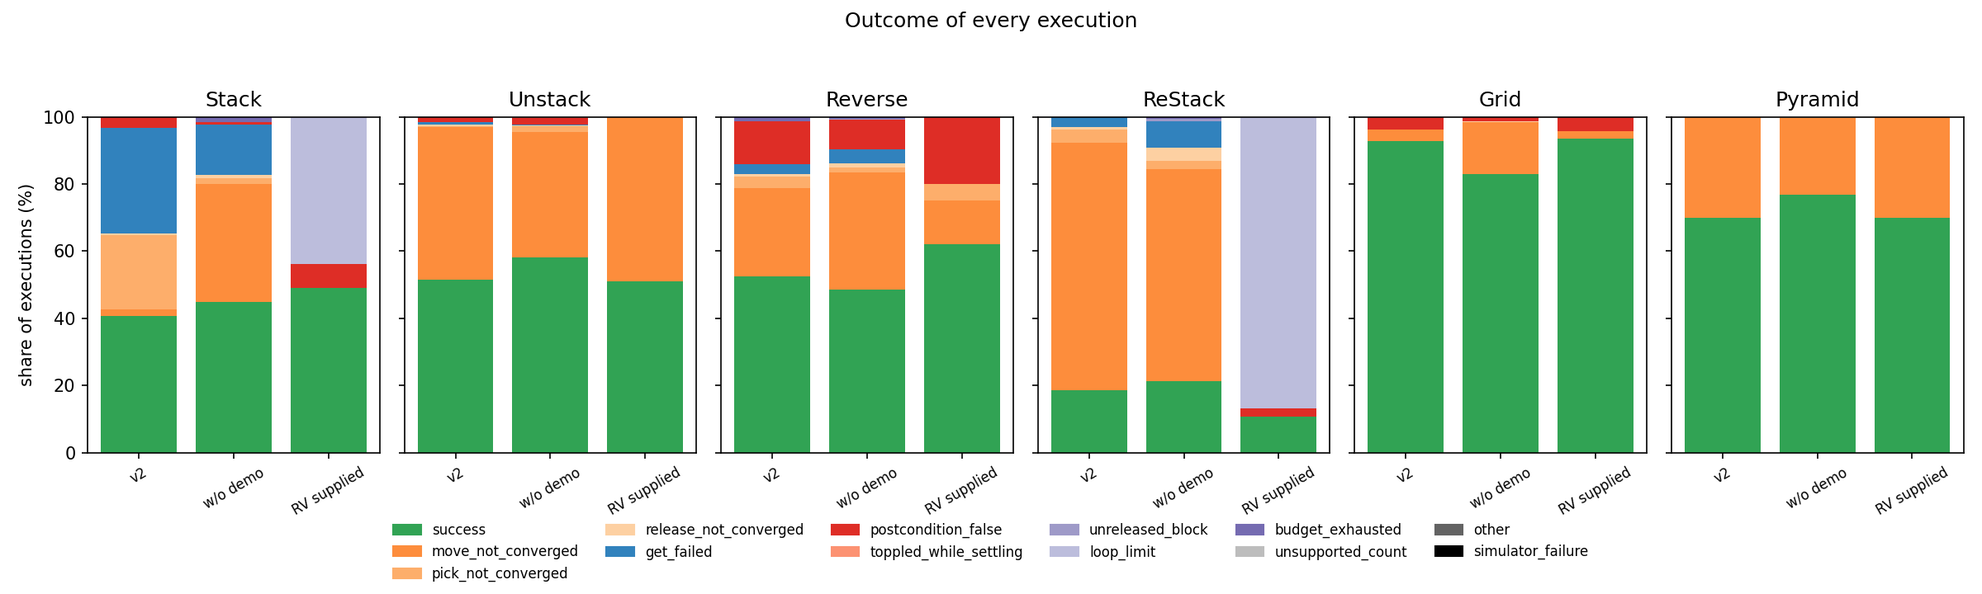
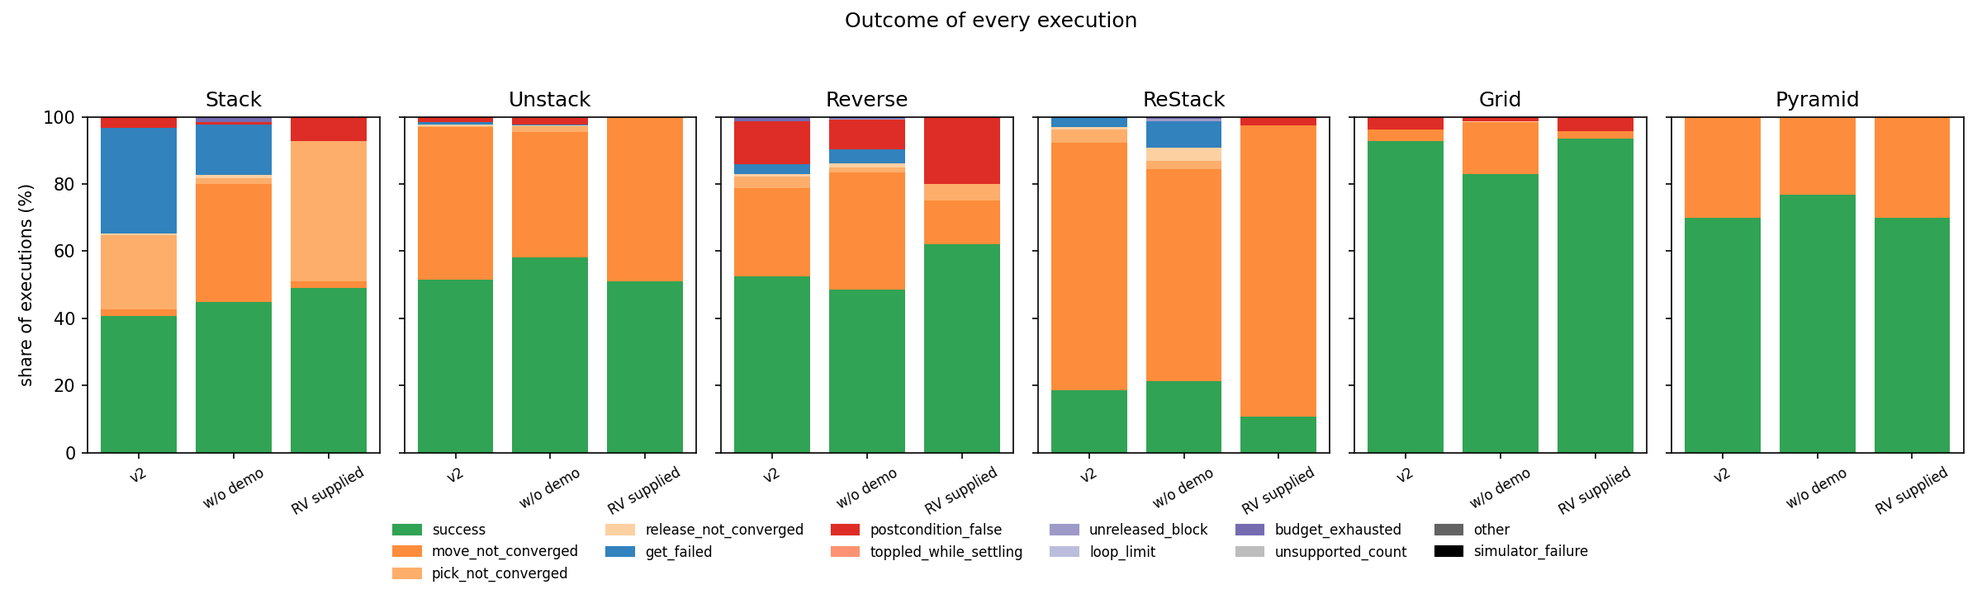
docs(cap): Revision 9 supplied-program failures by root cause
Rerun of the supplied programs on all 721 relaxed_v2 cases with the
root-cause fix: outcomes unchanged, former loop_limit failures are Pick or
Move non-convergence. Adds the default-reset comparison for Stack and ReStack.

Changed region(s): [[0.625, 0.1833, 0.6875, 0.7028], [0.125, 0.1833, 0.1875, 0.4889]]

diff --git a/roboverify/synthesis/cap/docs/revision_9_report.md b/roboverify/synthesis/cap/docs/revision_9_report.md
@@ -30,6 +30,13 @@
 - **Reverse update (2026-10-30):** the supplied Reverse program's 2–4
   block check was removed and its 100 cases were rerun; every RoboVerify
   Reverse number below is from that rerun (Section 5).
+- **Root-cause update (2026-10-31):** RoboVerify's executor continues after
+  a primitive that does not converge, so such a run used to be reported by
+  its symptom, typically a `While` that still had a witness at its iteration
+  bound (`loop_limit`). `validate_trace` now reports the first
+  non-converged primitive as the cause. The supplied programs were rerun on
+  all 721 cases: no outcome changed, and every former `loop_limit` is now a
+  `pick_not_converged` or `move_not_converged` (Sections 3 and 5).
 - **Run directory:** `runs/cap-generalization/20261029-full-eval/` (file
   list in Section 8). Code: commits `96c08dc` and `d17817d`.
 
@@ -82,10 +89,11 @@
    hand-written programs; only Stack's is formally verified.
 6. **Verification did not give generalization.** The verified Stack program
    succeeds on all cases up to 5 blocks, then fails like the CaP programs
-   (60% at 6, 0% from 8), mostly ending in `loop_limit` (its loop still has
-   a witness after 200 iterations). The verified motion model has no reach
-   or settling limit (smoke test,
-   `runs/cap-generalization/20261029-smoke/report.md`).
+   (60% at 6, 0% from 8), mostly because a Pick does not converge within
+   its 50 steps. The verified motion model has no reach or settling limit
+   (smoke test, `runs/cap-generalization/20261029-smoke/report.md`). On the
+   default Stack reset the same program stacks 6 blocks on all 10 seeds
+   (Section 5).
 
 ## 2. Success against block count
 
@@ -139,7 +147,7 @@ program's cliff at 7 blocks.
 | --- | --- | ---: | ---: | ---: | ---: | ---: | ---: | ---: | ---: | ---: | ---: | ---: | ---: | ---: |
 | Stack | final_v2 | 40.7% | 2.0% | 22.2% | 0.3% | 31.4% | 3.2% | 0.0% | 0.0% | 0.0% | 0.1% | 0.0% | 0.0% | 0.0% |
 | Stack | final_v2 w/o demo | 44.9% | 35.1% | 1.8% | 0.9% | 15.0% | 0.8% | 0.0% | 0.0% | 0.0% | 1.5% | 0.0% | 0.0% | 0.0% |
-| Stack | RoboVerify supplied | 49.0% | 0.0% | 0.0% | 0.0% | 0.0% | 7.3% | 0.0% | 0.0% | 43.8% | 0.0% | 0.0% | 0.0% | 0.0% |
+| Stack | RoboVerify supplied | 49.0% | 2.1% | 41.7% | 0.0% | 0.0% | 7.3% | 0.0% | 0.0% | 0.0% | 0.0% | 0.0% | 0.0% | 0.0% |
 | Unstack | final_v2 | 51.4% | 45.5% | 0.2% | 0.4% | 0.8% | 1.6% | 0.0% | 0.0% | 0.0% | 0.0% | 0.0% | 0.0% | 0.0% |
 | Unstack | final_v2 w/o demo | 58.0% | 37.5% | 1.6% | 0.1% | 0.4% | 2.0% | 0.2% | 0.0% | 0.0% | 0.1% | 0.0% | 0.0% | 0.0% |
 | Unstack | RoboVerify supplied | 51.0% | 49.0% | 0.0% | 0.0% | 0.0% | 0.0% | 0.0% | 0.0% | 0.0% | 0.0% | 0.0% | 0.0% | 0.0% |
@@ -148,7 +156,7 @@ program's cliff at 7 blocks.
 | Reverse | RoboVerify supplied | 62.0% | 13.0% | 5.0% | 0.0% | 0.0% | 20.0% | 0.0% | 0.0% | 0.0% | 0.0% | 0.0% | 0.0% | 0.0% |
 | ReStack | final_v2 | 18.6% | 73.6% | 4.1% | 0.6% | 3.1% | 0.0% | 0.0% | 0.0% | 0.0% | 0.1% | 0.0% | 0.0% | 0.0% |
 | ReStack | final_v2 w/o demo | 21.4% | 62.9% | 2.4% | 4.1% | 7.8% | 0.0% | 0.0% | 0.7% | 0.0% | 0.5% | 0.0% | 0.0% | 0.0% |
-| ReStack | RoboVerify supplied | 10.8% | 0.0% | 0.0% | 0.0% | 0.0% | 2.5% | 0.0% | 0.0% | 86.7% | 0.0% | 0.0% | 0.0% | 0.0% |
+| ReStack | RoboVerify supplied | 10.8% | 86.7% | 0.0% | 0.0% | 0.0% | 2.5% | 0.0% | 0.0% | 0.0% | 0.0% | 0.0% | 0.0% | 0.0% |
 | Grid | final_v2 | 92.8% | 3.4% | 0.0% | 0.0% | 0.0% | 3.8% | 0.0% | 0.0% | 0.0% | 0.0% | 0.0% | 0.0% | 0.0% |
 | Grid | final_v2 w/o demo | 82.9% | 15.6% | 0.0% | 0.1% | 0.0% | 1.4% | 0.0% | 0.0% | 0.0% | 0.0% | 0.0% | 0.0% | 0.0% |
 | Grid | RoboVerify supplied | 93.4% | 2.2% | 0.0% | 0.0% | 0.0% | 4.4% | 0.0% | 0.0% | 0.0% | 0.0% | 0.0% | 0.0% | 0.0% |
@@ -181,11 +189,25 @@ program's cliff at 7 blocks.
   without error but the settled goal does not hold.
 - **`budget_exhausted`** (0.3%): loops without progress under the scaled
   budgets.
-- RoboVerify's supplied programs: `loop_limit` (Stack 44%, ReStack 87%; a
-  `While` still has a guard witness after its iteration bound, 200 for
-  Stack and the program's own 10 for ReStack's loop 3) and
-  `move_not_converged` (Unstack, the `Y_min` pattern above; Reverse 13%,
-  from 8 blocks, the growing clearance above). Reverse also ends with
+- RoboVerify's supplied programs fail mostly by primitives that do not
+  converge. The executor continues after such a primitive, and the run then
+  usually ends at a loop's iteration bound; the first non-converged
+  primitive is reported as the cause:
+  - Stack `pick_not_converged` (42%): the Pick of a late block, from the
+    previous Release pose above the tower. In the inspected 6- and 7-block
+    cases that block lies at the edge of the relaxed region (0.76–0.80 m
+    from the base) or just in front of the body (0.36 m); the arm then
+    carries nothing, moves onto the tower and knocks it over, and the loop
+    reaches 200 iterations. Two 8- and 10-block cases fail on the lift
+    (`move_not_converged`, 2%);
+  - ReStack `move_not_converged` (87%): the first Move of the rebuild loop
+    lifts the gripper to N × 0.05 + 0.10 m above a loose block; in the
+    4–6-block cases that block lies 0.78–0.80 m from the base, where one
+    Move does not reach that height;
+  - `move_not_converged` for Unstack (the `Y_min` pattern above) and
+    Reverse (13%, from 8 blocks, the growing clearance above).
+
+  Reverse also ends with
   `postcondition_false` (20%, 7–10 blocks): in `reverse-n9-s0` the 9-block
   source tower falls during the first transfer, after which `b0` is the
   only loop witness and the loop exits after two iterations.
@@ -272,8 +294,13 @@ above); the others are reference programs validated by collection
 and audit. They generalize no better than CaP:
 - Stack: 100% up to 5 blocks, 60% at 6, 0% from 8. In the smoke test the
   7-block tower drifted beyond the ON* tolerance while settling, and from 10
-  blocks the lift to 0.10 m above the tower exceeded one Move; most failures
-  end in `loop_limit`;
+  blocks the lift to 0.10 m above the tower exceeded one Move. Most
+  failures are a Pick that does not converge (Section 3). On the default
+  Stack reset (seeds 0–9) the program succeeds on 10/10 at 4, 5 and 6
+  blocks; the default reset can sample 7 blocks on 4 seeds only, and 1 of
+  them succeeds. At 6 blocks the relaxed towers also lean more after
+  settling (largest XY offset from b0 10–32 mm, against 9–16 mm on the
+  default reset);
 - Unstack: 100% up to 5, then the `Y_min` parking pattern leaves the reachable
   region (10% at 7, 0–10% beyond);
 - Reverse: 100% up to 6 blocks, 90% at 7, 30% at 8, 0% from 9. The
@@ -282,7 +309,9 @@ and audit. They generalize no better than CaP:
   `synthesis/examples/reverse.py` and the 100 Reverse cases were rerun
   (62% overall). The earlier rows are kept in
   `superseded/reverse-supplied-with-count-check/`;
-- ReStack: 80% at 4, 60% at the trained 5, 0% from 7;
+- ReStack: 80% at 4, 60% at the trained 5, 0% from 7. On the default
+  ReStack reset, whose loose blocks lie in one strip at Y 0.15–0.25 m, it
+  succeeds on 10/10 at 4 and 10/10 at 5 blocks (seeds 0–9);
 - Grid: 100% up to 15 cells, 20% at 6 × 4;
 - Pyramid: 100%, 90%, 70%, 20% for k = 2–5.
 
@@ -370,6 +399,14 @@ and audit. They generalize no better than CaP:
 - `superseded/reverse-supplied-with-count-check/`: the original Reverse
   supplied rows and logs (2–4 block check in place);
   `launch_supplied_reverse_nocheck.log`: the 2026-10-30 rerun.
+- `superseded/supplied-before-root-cause/`: every supplied-program row,
+  log, `revision9_*` table and the example list before the 2026-10-31
+  root-cause rerun; `launch_supplied_root_cause.log`: that rerun.
+- `diagnostics/supplied-root-cause/`: the diagnostic scripts and outputs
+  behind Sections 3 and 5 (first non-converged primitive of each failing
+  Stack and ReStack case, the default-reset comparison, and the
+  precondition check of all 721 snapshots: every case satisfies its task
+  precondition, and table-level blocks are at least 0.1025 m apart).
 - `videos/<task>/<arm>/nNN-{success,failure}-<case>.mp4`: the Section 9
   example videos, each with a `.json` of the original and re-executed
   outcome; `videos/examples.json` lists the selection, `videos/table.md`
@@ -387,6 +424,7 @@ python -m synthesis.cap.reports.generalization_report runs/cap-generalization/20
     --output runs/cap-generalization/20261029-full-eval --plots synthesis/cap/docs/plots --prefix revision9
 python runs/cap-generalization/20261029-full-eval/scripts/render_examples.py select
 python runs/cap-generalization/20261029-full-eval/scripts/render_examples.py render --workers 24
+python runs/cap-generalization/20261029-full-eval/scripts/render_examples.py relabel
 python runs/cap-generalization/20261029-full-eval/scripts/render_examples.py table \
     > runs/cap-generalization/20261029-full-eval/videos/table.md
 ```
@@ -402,7 +440,10 @@ the first such execution in case and program order. Each example was
 re-executed from its case snapshot with video on (CaP: the same scripted
 replay with `video_mode="inline"`; RoboVerify: `record_execution` with a
 video path); all 273 re-executions reproduced the original outcome. The
-percentage is the plotted success rate. The videos are in the ignored run
+percentage is the plotted success rate. After the 2026-10-31 root-cause
+rerun, `render_examples.py relabel` took each example's failure kind from
+the new rows; the videos are unchanged, and 15 RoboVerify Stack and ReStack
+labels changed from `loop_limit`. The videos are in the ignored run
 directory, so the links work only in a checkout that has it.
 **Stack**
 
@@ -413,12 +454,12 @@ directory, so the links work only in a checkout that has it.
 | 4 | 92.8%<br>[success](../../../runs/cap-generalization/20261029-full-eval/videos/stack/final_v2/n04-success-stack-n4-s0.mp4)<br>[get_failed](../../../runs/cap-generalization/20261029-full-eval/videos/stack/final_v2/n04-failure-stack-n4-s1.mp4) | 98.0%<br>[success](../../../runs/cap-generalization/20261029-full-eval/videos/stack/final_v2_wo_demo/n04-success-stack-n4-s0.mp4)<br>[get_failed](../../../runs/cap-generalization/20261029-full-eval/videos/stack/final_v2_wo_demo/n04-failure-stack-n4-s1.mp4) | 100.0%<br>[success](../../../runs/cap-generalization/20261029-full-eval/videos/stack/rv_supplied/n04-success-stack-n4-s0.mp4) |
 | 5 | 57.6%<br>[success](../../../runs/cap-generalization/20261029-full-eval/videos/stack/final_v2/n05-success-stack-n5-s0.mp4)<br>[get_failed](../../../runs/cap-generalization/20261029-full-eval/videos/stack/final_v2/n05-failure-stack-n5-s0.mp4) | 72.6%<br>[success](../../../runs/cap-generalization/20261029-full-eval/videos/stack/final_v2_wo_demo/n05-success-stack-n5-s0.mp4)<br>[get_failed](../../../runs/cap-generalization/20261029-full-eval/videos/stack/final_v2_wo_demo/n05-failure-stack-n5-s0.mp4) | 100.0%<br>[success](../../../runs/cap-generalization/20261029-full-eval/videos/stack/rv_supplied/n05-success-stack-n5-s0.mp4) |
 | 6 | 26.8%<br>[success](../../../runs/cap-generalization/20261029-full-eval/videos/stack/final_v2/n06-success-stack-n6-s0.mp4)<br>[get_failed](../../../runs/cap-generalization/20261029-full-eval/videos/stack/final_v2/n06-failure-stack-n6-s0.mp4) | 41.8%<br>[success](../../../runs/cap-generalization/20261029-full-eval/videos/stack/final_v2_wo_demo/n06-success-stack-n6-s0.mp4)<br>[move_not_converged](../../../runs/cap-generalization/20261029-full-eval/videos/stack/final_v2_wo_demo/n06-failure-stack-n6-s0.mp4) | 60.0%<br>[success](../../../runs/cap-generalization/20261029-full-eval/videos/stack/rv_supplied/n06-success-stack-n6-s0.mp4)<br>[postcondition_false](../../../runs/cap-generalization/20261029-full-eval/videos/stack/rv_supplied/n06-failure-stack-n6-s2.mp4) |
-| 7 | 11.8%<br>[success](../../../runs/cap-generalization/20261029-full-eval/videos/stack/final_v2/n07-success-stack-n7-s0.mp4)<br>[get_failed](../../../runs/cap-generalization/20261029-full-eval/videos/stack/final_v2/n07-failure-stack-n7-s0.mp4) | 16.9%<br>[success](../../../runs/cap-generalization/20261029-full-eval/videos/stack/final_v2_wo_demo/n07-success-stack-n7-s0.mp4)<br>[move_not_converged](../../../runs/cap-generalization/20261029-full-eval/videos/stack/final_v2_wo_demo/n07-failure-stack-n7-s0.mp4) | 11.1%<br>[success](../../../runs/cap-generalization/20261029-full-eval/videos/stack/rv_supplied/n07-success-stack-n7-s1.mp4)<br>[loop_limit](../../../runs/cap-generalization/20261029-full-eval/videos/stack/rv_supplied/n07-failure-stack-n7-s2.mp4) |
-| 8 | 3.6%<br>[success](../../../runs/cap-generalization/20261029-full-eval/videos/stack/final_v2/n08-success-stack-n8-s0.mp4)<br>[get_failed](../../../runs/cap-generalization/20261029-full-eval/videos/stack/final_v2/n08-failure-stack-n8-s0.mp4) | 3.8%<br>[success](../../../runs/cap-generalization/20261029-full-eval/videos/stack/final_v2_wo_demo/n08-success-stack-n8-s0.mp4)<br>[move_not_converged](../../../runs/cap-generalization/20261029-full-eval/videos/stack/final_v2_wo_demo/n08-failure-stack-n8-s0.mp4) | 0.0%<br>[loop_limit](../../../runs/cap-generalization/20261029-full-eval/videos/stack/rv_supplied/n08-failure-stack-n8-s0.mp4) |
-| 9 | 0.0%<br>[get_failed](../../../runs/cap-generalization/20261029-full-eval/videos/stack/final_v2/n09-failure-stack-n9-s0.mp4) | 0.2%<br>[success](../../../runs/cap-generalization/20261029-full-eval/videos/stack/final_v2_wo_demo/n09-success-stack-n9-s7.mp4)<br>[move_not_converged](../../../runs/cap-generalization/20261029-full-eval/videos/stack/final_v2_wo_demo/n09-failure-stack-n9-s0.mp4) | 0.0%<br>[loop_limit](../../../runs/cap-generalization/20261029-full-eval/videos/stack/rv_supplied/n09-failure-stack-n9-s0.mp4) |
-| 10 | 0.0%<br>[get_failed](../../../runs/cap-generalization/20261029-full-eval/videos/stack/final_v2/n10-failure-stack-n10-s0.mp4) | 0.0%<br>[move_not_converged](../../../runs/cap-generalization/20261029-full-eval/videos/stack/final_v2_wo_demo/n10-failure-stack-n10-s0.mp4) | 0.0%<br>[loop_limit](../../../runs/cap-generalization/20261029-full-eval/videos/stack/rv_supplied/n10-failure-stack-n10-s0.mp4) |
-| 11 | 0.0%<br>[pick_not_converged](../../../runs/cap-generalization/20261029-full-eval/videos/stack/final_v2/n11-failure-stack-n11-s0.mp4) | 0.0%<br>[move_not_converged](../../../runs/cap-generalization/20261029-full-eval/videos/stack/final_v2_wo_demo/n11-failure-stack-n11-s0.mp4) | 0.0%<br>[loop_limit](../../../runs/cap-generalization/20261029-full-eval/videos/stack/rv_supplied/n11-failure-stack-n11-s0.mp4) |
-| 12 | 0.0%<br>[get_failed](../../../runs/cap-generalization/20261029-full-eval/videos/stack/final_v2/n12-failure-stack-n12-s7.mp4) | 0.0%<br>[move_not_converged](../../../runs/cap-generalization/20261029-full-eval/videos/stack/final_v2_wo_demo/n12-failure-stack-n12-s7.mp4) | 0.0%<br>[loop_limit](../../../runs/cap-generalization/20261029-full-eval/videos/stack/rv_supplied/n12-failure-stack-n12-s7.mp4) |
+| 7 | 11.8%<br>[success](../../../runs/cap-generalization/20261029-full-eval/videos/stack/final_v2/n07-success-stack-n7-s0.mp4)<br>[get_failed](../../../runs/cap-generalization/20261029-full-eval/videos/stack/final_v2/n07-failure-stack-n7-s0.mp4) | 16.9%<br>[success](../../../runs/cap-generalization/20261029-full-eval/videos/stack/final_v2_wo_demo/n07-success-stack-n7-s0.mp4)<br>[move_not_converged](../../../runs/cap-generalization/20261029-full-eval/videos/stack/final_v2_wo_demo/n07-failure-stack-n7-s0.mp4) | 11.1%<br>[success](../../../runs/cap-generalization/20261029-full-eval/videos/stack/rv_supplied/n07-success-stack-n7-s1.mp4)<br>[pick_not_converged](../../../runs/cap-generalization/20261029-full-eval/videos/stack/rv_supplied/n07-failure-stack-n7-s2.mp4) |
+| 8 | 3.6%<br>[success](../../../runs/cap-generalization/20261029-full-eval/videos/stack/final_v2/n08-success-stack-n8-s0.mp4)<br>[get_failed](../../../runs/cap-generalization/20261029-full-eval/videos/stack/final_v2/n08-failure-stack-n8-s0.mp4) | 3.8%<br>[success](../../../runs/cap-generalization/20261029-full-eval/videos/stack/final_v2_wo_demo/n08-success-stack-n8-s0.mp4)<br>[move_not_converged](../../../runs/cap-generalization/20261029-full-eval/videos/stack/final_v2_wo_demo/n08-failure-stack-n8-s0.mp4) | 0.0%<br>[pick_not_converged](../../../runs/cap-generalization/20261029-full-eval/videos/stack/rv_supplied/n08-failure-stack-n8-s0.mp4) |
+| 9 | 0.0%<br>[get_failed](../../../runs/cap-generalization/20261029-full-eval/videos/stack/final_v2/n09-failure-stack-n9-s0.mp4) | 0.2%<br>[success](../../../runs/cap-generalization/20261029-full-eval/videos/stack/final_v2_wo_demo/n09-success-stack-n9-s7.mp4)<br>[move_not_converged](../../../runs/cap-generalization/20261029-full-eval/videos/stack/final_v2_wo_demo/n09-failure-stack-n9-s0.mp4) | 0.0%<br>[pick_not_converged](../../../runs/cap-generalization/20261029-full-eval/videos/stack/rv_supplied/n09-failure-stack-n9-s0.mp4) |
+| 10 | 0.0%<br>[get_failed](../../../runs/cap-generalization/20261029-full-eval/videos/stack/final_v2/n10-failure-stack-n10-s0.mp4) | 0.0%<br>[move_not_converged](../../../runs/cap-generalization/20261029-full-eval/videos/stack/final_v2_wo_demo/n10-failure-stack-n10-s0.mp4) | 0.0%<br>[pick_not_converged](../../../runs/cap-generalization/20261029-full-eval/videos/stack/rv_supplied/n10-failure-stack-n10-s0.mp4) |
+| 11 | 0.0%<br>[pick_not_converged](../../../runs/cap-generalization/20261029-full-eval/videos/stack/final_v2/n11-failure-stack-n11-s0.mp4) | 0.0%<br>[move_not_converged](../../../runs/cap-generalization/20261029-full-eval/videos/stack/final_v2_wo_demo/n11-failure-stack-n11-s0.mp4) | 0.0%<br>[pick_not_converged](../../../runs/cap-generalization/20261029-full-eval/videos/stack/rv_supplied/n11-failure-stack-n11-s0.mp4) |
+| 12 | 0.0%<br>[get_failed](../../../runs/cap-generalization/20261029-full-eval/videos/stack/final_v2/n12-failure-stack-n12-s7.mp4) | 0.0%<br>[move_not_converged](../../../runs/cap-generalization/20261029-full-eval/videos/stack/final_v2_wo_demo/n12-failure-stack-n12-s7.mp4) | 0.0%<br>[pick_not_converged](../../../runs/cap-generalization/20261029-full-eval/videos/stack/rv_supplied/n12-failure-stack-n12-s7.mp4) |
 
 **Unstack**
 
@@ -456,15 +497,15 @@ directory, so the links work only in a checkout that has it.
 
 | Blocks | final_v2 | final_v2 w/o demo | RoboVerify supplied |
 | ---: | --- | --- | --- |
-| 4 | 67.0%<br>[success](../../../runs/cap-generalization/20261029-full-eval/videos/restack/final_v2/n04-success-restack-n4-t2-s0.mp4)<br>[move_not_converged](../../../runs/cap-generalization/20261029-full-eval/videos/restack/final_v2/n04-failure-restack-n4-t2-s0.mp4) | 90.4%<br>[success](../../../runs/cap-generalization/20261029-full-eval/videos/restack/final_v2_wo_demo/n04-success-restack-n4-t2-s0.mp4)<br>[move_not_converged](../../../runs/cap-generalization/20261029-full-eval/videos/restack/final_v2_wo_demo/n04-failure-restack-n4-t2-s3.mp4) | 80.0%<br>[success](../../../runs/cap-generalization/20261029-full-eval/videos/restack/rv_supplied/n04-success-restack-n4-t2-s0.mp4)<br>[loop_limit](../../../runs/cap-generalization/20261029-full-eval/videos/restack/rv_supplied/n04-failure-restack-n4-t2-s3.mp4) |
-| 5 | 68.0%<br>[success](../../../runs/cap-generalization/20261029-full-eval/videos/restack/final_v2/n05-success-restack-n5-t3-s0.mp4)<br>[move_not_converged](../../../runs/cap-generalization/20261029-full-eval/videos/restack/final_v2/n05-failure-restack-n5-t3-s0.mp4) | 80.0%<br>[success](../../../runs/cap-generalization/20261029-full-eval/videos/restack/final_v2_wo_demo/n05-success-restack-n5-t3-s0.mp4)<br>[move_not_converged](../../../runs/cap-generalization/20261029-full-eval/videos/restack/final_v2_wo_demo/n05-failure-restack-n5-t3-s0.mp4) | 60.0%<br>[success](../../../runs/cap-generalization/20261029-full-eval/videos/restack/rv_supplied/n05-success-restack-n5-t3-s1.mp4)<br>[loop_limit](../../../runs/cap-generalization/20261029-full-eval/videos/restack/rv_supplied/n05-failure-restack-n5-t3-s0.mp4) |
-| 6 | 43.8%<br>[success](../../../runs/cap-generalization/20261029-full-eval/videos/restack/final_v2/n06-success-restack-n6-t2-s3.mp4)<br>[move_not_converged](../../../runs/cap-generalization/20261029-full-eval/videos/restack/final_v2/n06-failure-restack-n6-t2-s0.mp4) | 45.8%<br>[success](../../../runs/cap-generalization/20261029-full-eval/videos/restack/final_v2_wo_demo/n06-success-restack-n6-t2-s1.mp4)<br>[move_not_converged](../../../runs/cap-generalization/20261029-full-eval/videos/restack/final_v2_wo_demo/n06-failure-restack-n6-t2-s0.mp4) | 15.0%<br>[success](../../../runs/cap-generalization/20261029-full-eval/videos/restack/rv_supplied/n06-success-restack-n6-t2-s8.mp4)<br>[loop_limit](../../../runs/cap-generalization/20261029-full-eval/videos/restack/rv_supplied/n06-failure-restack-n6-t2-s0.mp4) |
-| 7 | 27.9%<br>[success](../../../runs/cap-generalization/20261029-full-eval/videos/restack/final_v2/n07-success-restack-n7-t3-s4.mp4)<br>[move_not_converged](../../../runs/cap-generalization/20261029-full-eval/videos/restack/final_v2/n07-failure-restack-n7-t3-s0.mp4) | 26.8%<br>[success](../../../runs/cap-generalization/20261029-full-eval/videos/restack/final_v2_wo_demo/n07-success-restack-n7-t3-s0.mp4)<br>[move_not_converged](../../../runs/cap-generalization/20261029-full-eval/videos/restack/final_v2_wo_demo/n07-failure-restack-n7-t3-s0.mp4) | 0.0%<br>[loop_limit](../../../runs/cap-generalization/20261029-full-eval/videos/restack/rv_supplied/n07-failure-restack-n7-t3-s0.mp4) |
-| 8 | 7.2%<br>[success](../../../runs/cap-generalization/20261029-full-eval/videos/restack/final_v2/n08-success-restack-n8-t4-s3.mp4)<br>[move_not_converged](../../../runs/cap-generalization/20261029-full-eval/videos/restack/final_v2/n08-failure-restack-n8-t4-s0.mp4) | 9.8%<br>[success](../../../runs/cap-generalization/20261029-full-eval/videos/restack/final_v2_wo_demo/n08-success-restack-n8-t4-s0.mp4)<br>[move_not_converged](../../../runs/cap-generalization/20261029-full-eval/videos/restack/final_v2_wo_demo/n08-failure-restack-n8-t4-s0.mp4) | 0.0%<br>[loop_limit](../../../runs/cap-generalization/20261029-full-eval/videos/restack/rv_supplied/n08-failure-restack-n8-t4-s0.mp4) |
-| 9 | 0.5%<br>[success](../../../runs/cap-generalization/20261029-full-eval/videos/restack/final_v2/n09-success-restack-n9-t5-s3.mp4)<br>[move_not_converged](../../../runs/cap-generalization/20261029-full-eval/videos/restack/final_v2/n09-failure-restack-n9-t5-s0.mp4) | 1.4%<br>[success](../../../runs/cap-generalization/20261029-full-eval/videos/restack/final_v2_wo_demo/n09-success-restack-n9-t5-s1.mp4)<br>[move_not_converged](../../../runs/cap-generalization/20261029-full-eval/videos/restack/final_v2_wo_demo/n09-failure-restack-n9-t5-s0.mp4) | 0.0%<br>[loop_limit](../../../runs/cap-generalization/20261029-full-eval/videos/restack/rv_supplied/n09-failure-restack-n9-t5-s0.mp4) |
-| 10 | 0.0%<br>[move_not_converged](../../../runs/cap-generalization/20261029-full-eval/videos/restack/final_v2/n10-failure-restack-n10-t2-s1.mp4) | 0.0%<br>[move_not_converged](../../../runs/cap-generalization/20261029-full-eval/videos/restack/final_v2_wo_demo/n10-failure-restack-n10-t2-s1.mp4) | 0.0%<br>[loop_limit](../../../runs/cap-generalization/20261029-full-eval/videos/restack/rv_supplied/n10-failure-restack-n10-t2-s1.mp4) |
-| 11 | 0.0%<br>[move_not_converged](../../../runs/cap-generalization/20261029-full-eval/videos/restack/final_v2/n11-failure-restack-n11-t3-s0.mp4) | 0.0%<br>[move_not_converged](../../../runs/cap-generalization/20261029-full-eval/videos/restack/final_v2_wo_demo/n11-failure-restack-n11-t3-s0.mp4) | 0.0%<br>[loop_limit](../../../runs/cap-generalization/20261029-full-eval/videos/restack/rv_supplied/n11-failure-restack-n11-t3-s0.mp4) |
-| 12 | 0.0%<br>[move_not_converged](../../../runs/cap-generalization/20261029-full-eval/videos/restack/final_v2/n12-failure-restack-n12-t8-s4.mp4) | 0.0%<br>[move_not_converged](../../../runs/cap-generalization/20261029-full-eval/videos/restack/final_v2_wo_demo/n12-failure-restack-n12-t8-s4.mp4) | 0.0%<br>[loop_limit](../../../runs/cap-generalization/20261029-full-eval/videos/restack/rv_supplied/n12-failure-restack-n12-t8-s4.mp4) |
+| 4 | 67.0%<br>[success](../../../runs/cap-generalization/20261029-full-eval/videos/restack/final_v2/n04-success-restack-n4-t2-s0.mp4)<br>[move_not_converged](../../../runs/cap-generalization/20261029-full-eval/videos/restack/final_v2/n04-failure-restack-n4-t2-s0.mp4) | 90.4%<br>[success](../../../runs/cap-generalization/20261029-full-eval/videos/restack/final_v2_wo_demo/n04-success-restack-n4-t2-s0.mp4)<br>[move_not_converged](../../../runs/cap-generalization/20261029-full-eval/videos/restack/final_v2_wo_demo/n04-failure-restack-n4-t2-s3.mp4) | 80.0%<br>[success](../../../runs/cap-generalization/20261029-full-eval/videos/restack/rv_supplied/n04-success-restack-n4-t2-s0.mp4)<br>[move_not_converged](../../../runs/cap-generalization/20261029-full-eval/videos/restack/rv_supplied/n04-failure-restack-n4-t2-s3.mp4) |
+| 5 | 68.0%<br>[success](../../../runs/cap-generalization/20261029-full-eval/videos/restack/final_v2/n05-success-restack-n5-t3-s0.mp4)<br>[move_not_converged](../../../runs/cap-generalization/20261029-full-eval/videos/restack/final_v2/n05-failure-restack-n5-t3-s0.mp4) | 80.0%<br>[success](../../../runs/cap-generalization/20261029-full-eval/videos/restack/final_v2_wo_demo/n05-success-restack-n5-t3-s0.mp4)<br>[move_not_converged](../../../runs/cap-generalization/20261029-full-eval/videos/restack/final_v2_wo_demo/n05-failure-restack-n5-t3-s0.mp4) | 60.0%<br>[success](../../../runs/cap-generalization/20261029-full-eval/videos/restack/rv_supplied/n05-success-restack-n5-t3-s1.mp4)<br>[move_not_converged](../../../runs/cap-generalization/20261029-full-eval/videos/restack/rv_supplied/n05-failure-restack-n5-t3-s0.mp4) |
+| 6 | 43.8%<br>[success](../../../runs/cap-generalization/20261029-full-eval/videos/restack/final_v2/n06-success-restack-n6-t2-s3.mp4)<br>[move_not_converged](../../../runs/cap-generalization/20261029-full-eval/videos/restack/final_v2/n06-failure-restack-n6-t2-s0.mp4) | 45.8%<br>[success](../../../runs/cap-generalization/20261029-full-eval/videos/restack/final_v2_wo_demo/n06-success-restack-n6-t2-s1.mp4)<br>[move_not_converged](../../../runs/cap-generalization/20261029-full-eval/videos/restack/final_v2_wo_demo/n06-failure-restack-n6-t2-s0.mp4) | 15.0%<br>[success](../../../runs/cap-generalization/20261029-full-eval/videos/restack/rv_supplied/n06-success-restack-n6-t2-s8.mp4)<br>[move_not_converged](../../../runs/cap-generalization/20261029-full-eval/videos/restack/rv_supplied/n06-failure-restack-n6-t2-s0.mp4) |
+| 7 | 27.9%<br>[success](../../../runs/cap-generalization/20261029-full-eval/videos/restack/final_v2/n07-success-restack-n7-t3-s4.mp4)<br>[move_not_converged](../../../runs/cap-generalization/20261029-full-eval/videos/restack/final_v2/n07-failure-restack-n7-t3-s0.mp4) | 26.8%<br>[success](../../../runs/cap-generalization/20261029-full-eval/videos/restack/final_v2_wo_demo/n07-success-restack-n7-t3-s0.mp4)<br>[move_not_converged](../../../runs/cap-generalization/20261029-full-eval/videos/restack/final_v2_wo_demo/n07-failure-restack-n7-t3-s0.mp4) | 0.0%<br>[move_not_converged](../../../runs/cap-generalization/20261029-full-eval/videos/restack/rv_supplied/n07-failure-restack-n7-t3-s0.mp4) |
+| 8 | 7.2%<br>[success](../../../runs/cap-generalization/20261029-full-eval/videos/restack/final_v2/n08-success-restack-n8-t4-s3.mp4)<br>[move_not_converged](../../../runs/cap-generalization/20261029-full-eval/videos/restack/final_v2/n08-failure-restack-n8-t4-s0.mp4) | 9.8%<br>[success](../../../runs/cap-generalization/20261029-full-eval/videos/restack/final_v2_wo_demo/n08-success-restack-n8-t4-s0.mp4)<br>[move_not_converged](../../../runs/cap-generalization/20261029-full-eval/videos/restack/final_v2_wo_demo/n08-failure-restack-n8-t4-s0.mp4) | 0.0%<br>[move_not_converged](../../../runs/cap-generalization/20261029-full-eval/videos/restack/rv_supplied/n08-failure-restack-n8-t4-s0.mp4) |
+| 9 | 0.5%<br>[success](../../../runs/cap-generalization/20261029-full-eval/videos/restack/final_v2/n09-success-restack-n9-t5-s3.mp4)<br>[move_not_converged](../../../runs/cap-generalization/20261029-full-eval/videos/restack/final_v2/n09-failure-restack-n9-t5-s0.mp4) | 1.4%<br>[success](../../../runs/cap-generalization/20261029-full-eval/videos/restack/final_v2_wo_demo/n09-success-restack-n9-t5-s1.mp4)<br>[move_not_converged](../../../runs/cap-generalization/20261029-full-eval/videos/restack/final_v2_wo_demo/n09-failure-restack-n9-t5-s0.mp4) | 0.0%<br>[move_not_converged](../../../runs/cap-generalization/20261029-full-eval/videos/restack/rv_supplied/n09-failure-restack-n9-t5-s0.mp4) |
+| 10 | 0.0%<br>[move_not_converged](../../../runs/cap-generalization/20261029-full-eval/videos/restack/final_v2/n10-failure-restack-n10-t2-s1.mp4) | 0.0%<br>[move_not_converged](../../../runs/cap-generalization/20261029-full-eval/videos/restack/final_v2_wo_demo/n10-failure-restack-n10-t2-s1.mp4) | 0.0%<br>[move_not_converged](../../../runs/cap-generalization/20261029-full-eval/videos/restack/rv_supplied/n10-failure-restack-n10-t2-s1.mp4) |
+| 11 | 0.0%<br>[move_not_converged](../../../runs/cap-generalization/20261029-full-eval/videos/restack/final_v2/n11-failure-restack-n11-t3-s0.mp4) | 0.0%<br>[move_not_converged](../../../runs/cap-generalization/20261029-full-eval/videos/restack/final_v2_wo_demo/n11-failure-restack-n11-t3-s0.mp4) | 0.0%<br>[move_not_converged](../../../runs/cap-generalization/20261029-full-eval/videos/restack/rv_supplied/n11-failure-restack-n11-t3-s0.mp4) |
+| 12 | 0.0%<br>[move_not_converged](../../../runs/cap-generalization/20261029-full-eval/videos/restack/final_v2/n12-failure-restack-n12-t8-s4.mp4) | 0.0%<br>[move_not_converged](../../../runs/cap-generalization/20261029-full-eval/videos/restack/final_v2_wo_demo/n12-failure-restack-n12-t8-s4.mp4) | 0.0%<br>[move_not_converged](../../../runs/cap-generalization/20261029-full-eval/videos/restack/rv_supplied/n12-failure-restack-n12-t8-s4.mp4) |
 
 **Grid**
 
